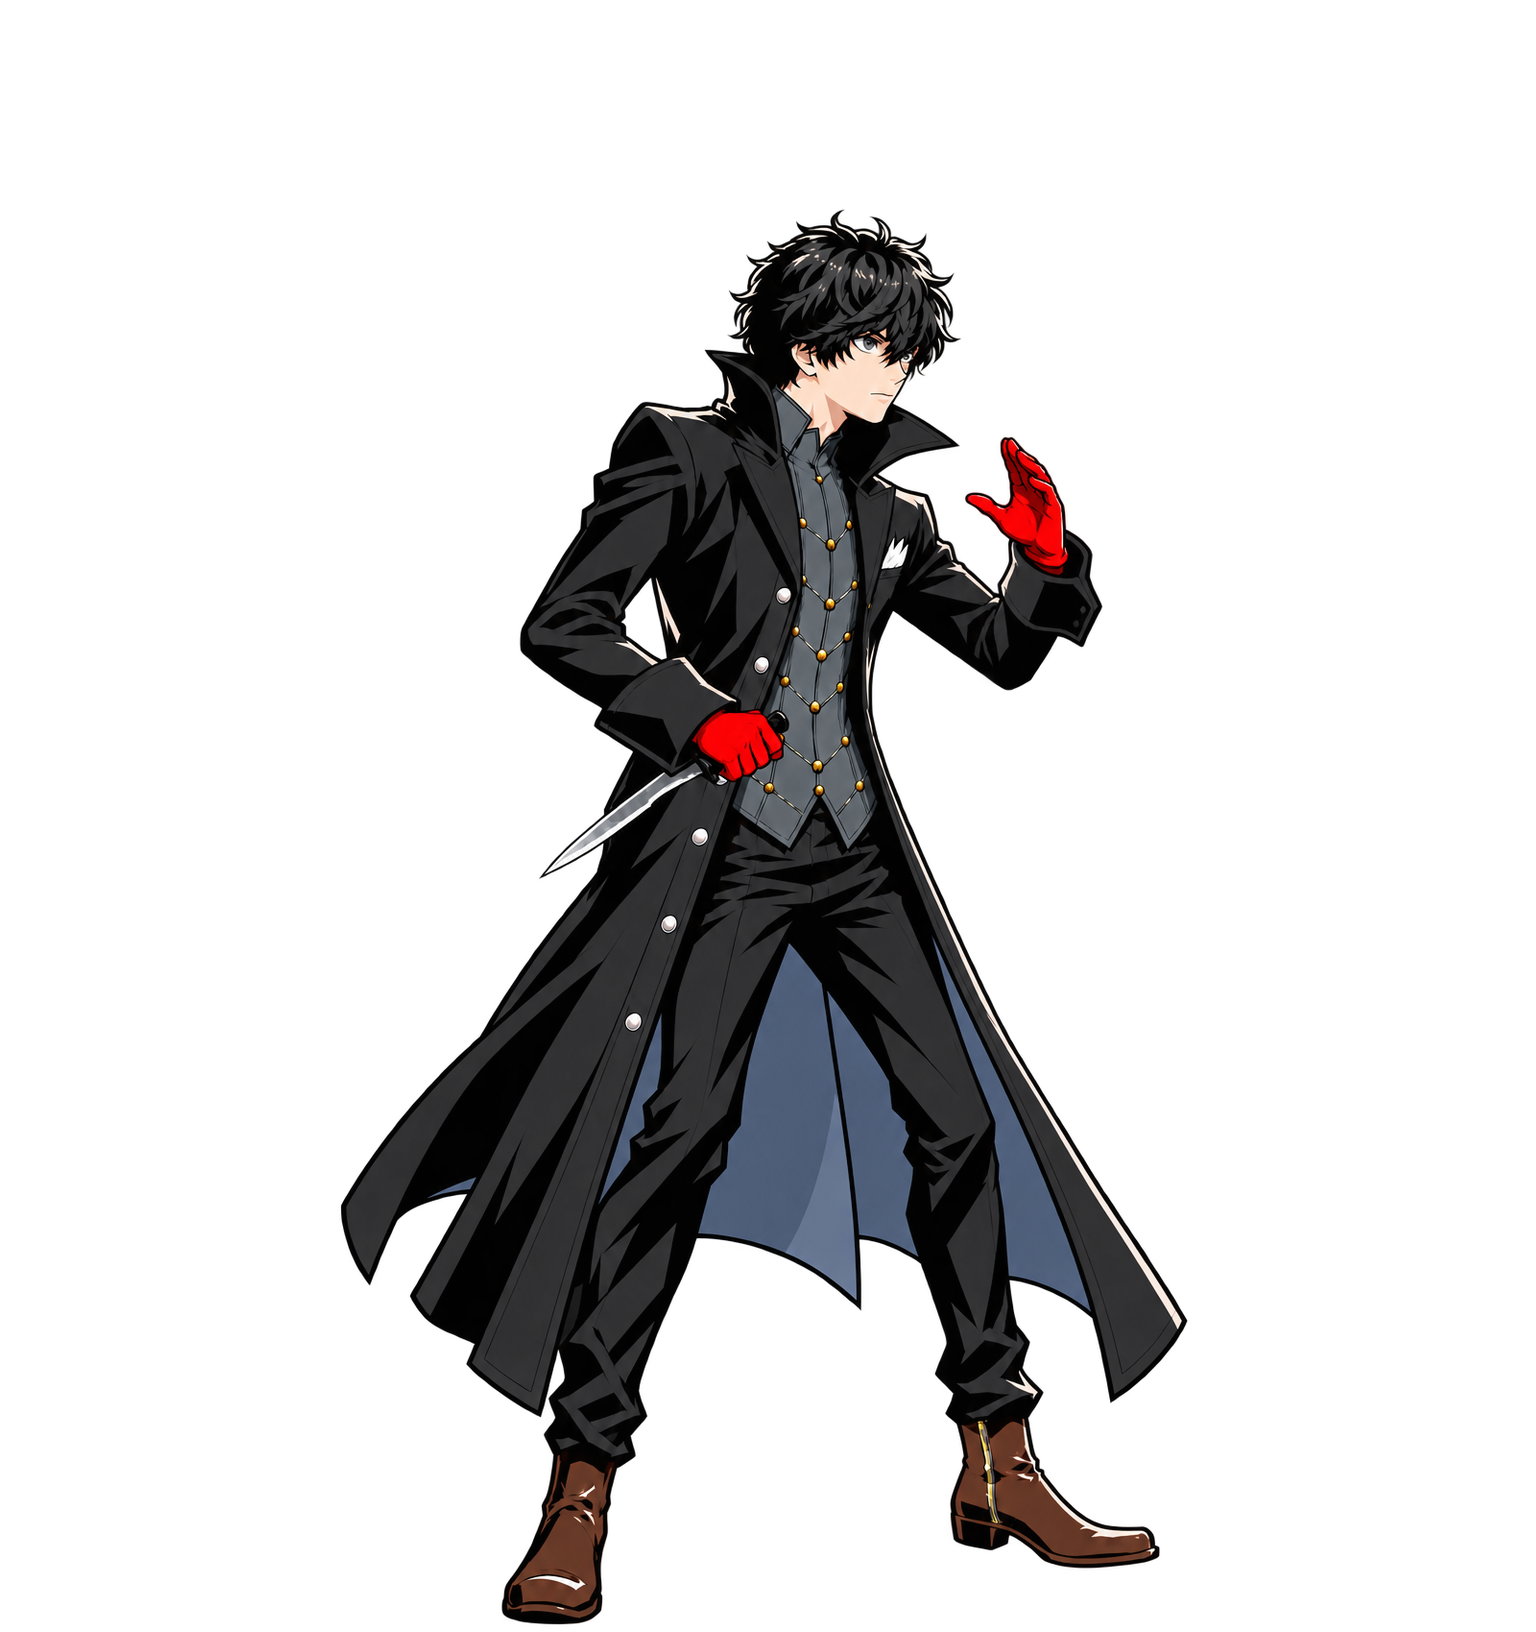
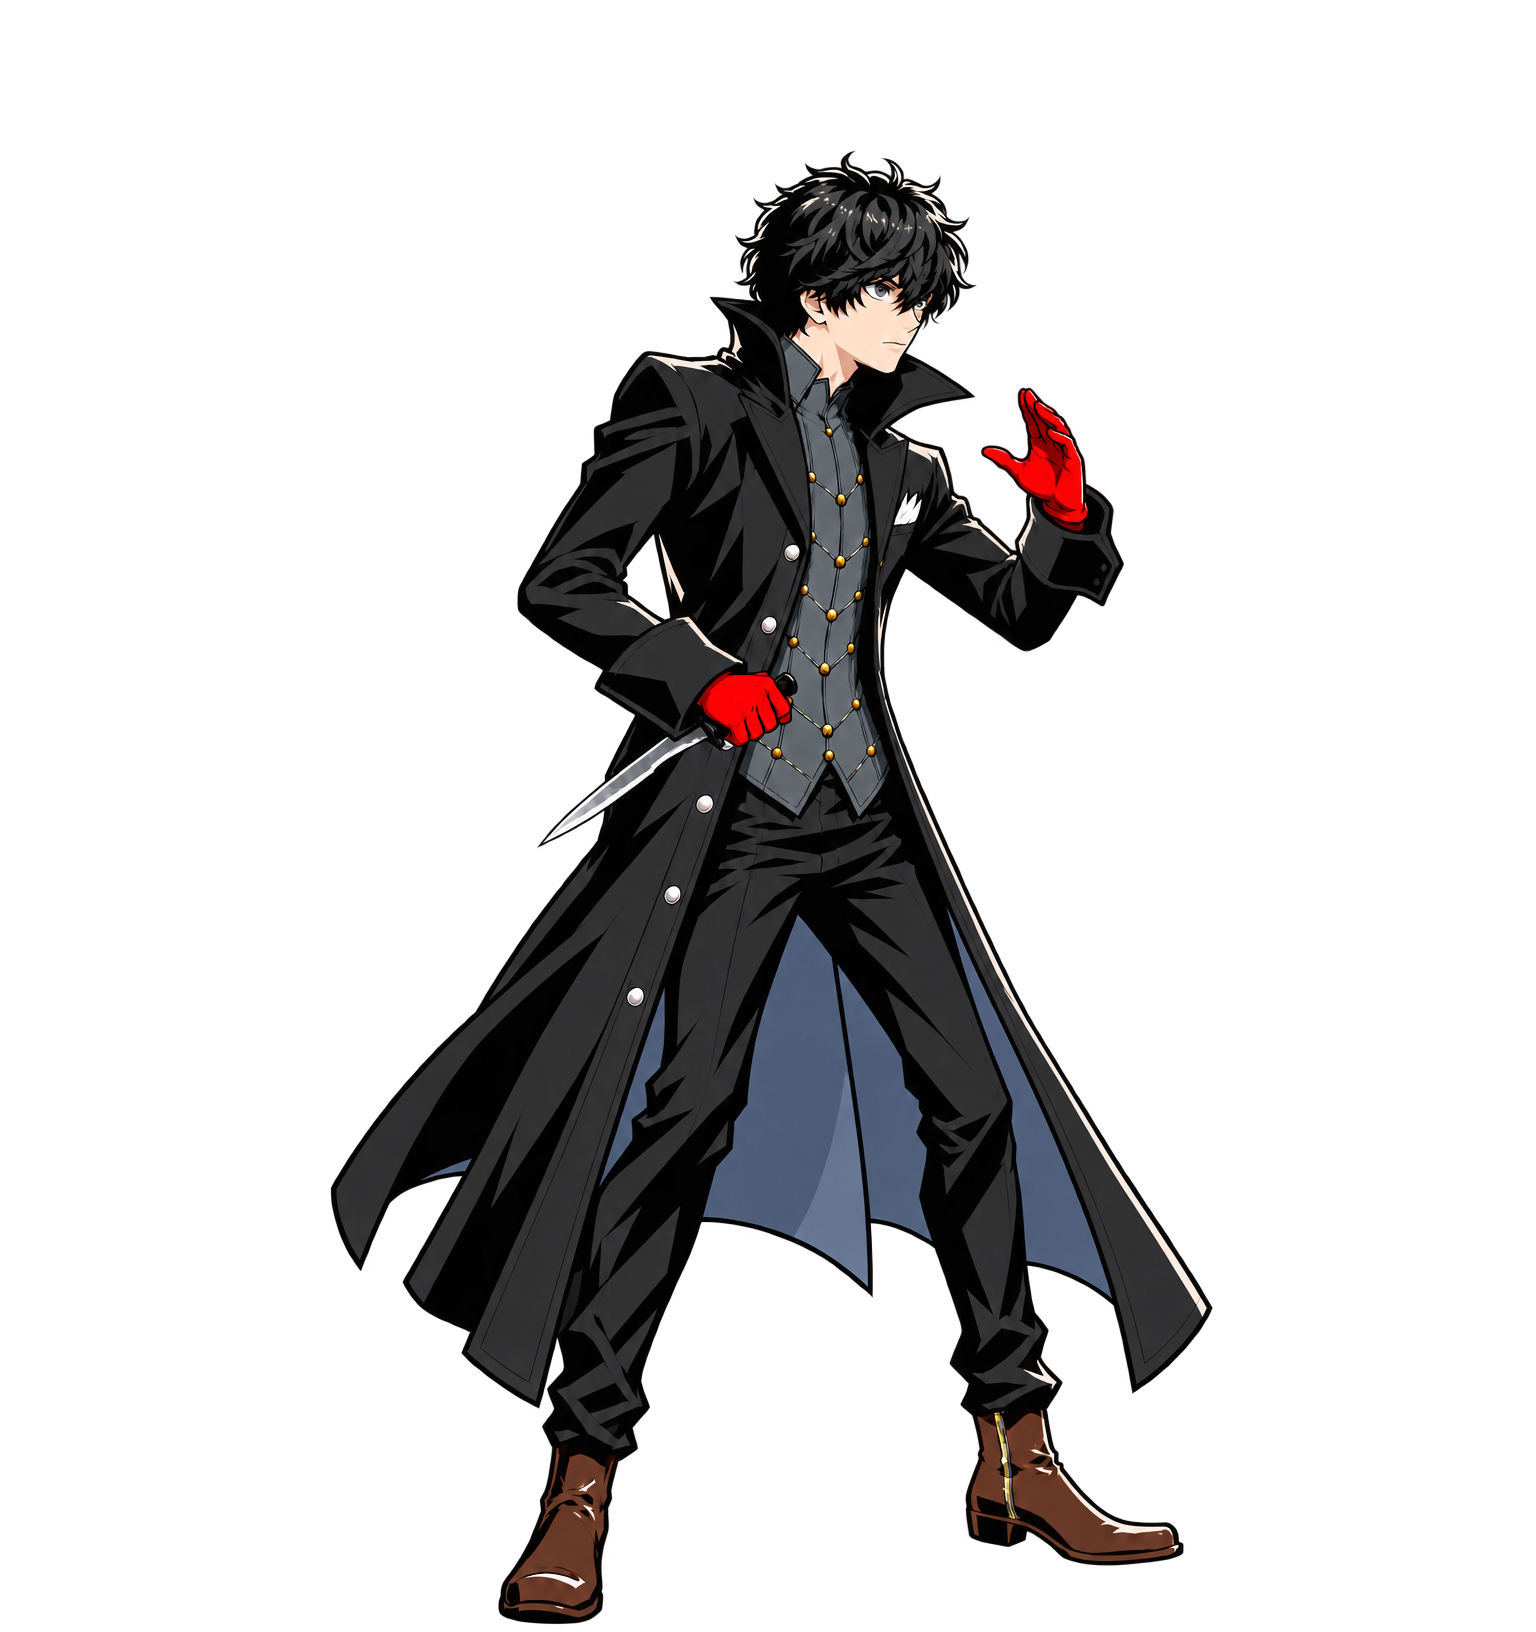
P5Joker: full-size ready stance; faster big summon
- knife_ready_b normalized at 1.0 (was 0.96): the held ready stance read smaller in game
- cast_big ~2.3 s -> ~1.2 s (user: the summon with the flung arm dragged)

Claude-Session: https://claude.ai/code/session_01Nam5m2bn9ofCCWTGM6fwcN

Changed region(s): [[0.2188, 0.0938, 0.8125, 1.0]]

diff --git a/tools/p5/build_rig_p5.py b/tools/p5/build_rig_p5.py
@@ -97,9 +97,10 @@ ANIMS = {
     # buffs), the big summon (mask ripped off) for the large Persona cards
     "cast_guard": [("idle_a3", .02), ("guard_mid_a", .06), ("guard_a2", .45), ("guard_mid_a", .08), ("idle_a3", .12, .07)],
     "cast_glove": [("idle_a3", .02)] + GLOVE,
-    "cast_big": [("idle_a3", .02)] + [(n, .07) for n in SUMMON_UP] + [("summon_hold_a", .35), ("summon_rip_a2", .12),
-                 ("summon_open1_b", .07), ("summon_open2_b", .07), ("summon_release_b", .8), ("summon_settle_b", .1),
-                 ("summon_down1_e", .1), ("summon_down05_c", .1), ("summon_down25_c", .1), ("idle_a3", .15, .08)],
+    # 2026-10-29 (user: the big summon dragged): ~2.3 s -> ~1.3 s; the release pose (arm flung out) still holds longest
+    "cast_big": [("idle_a3", .02)] + [(n, .045) for n in SUMMON_UP] + [("summon_hold_a", .14), ("summon_rip_a2", .08),
+                 ("summon_open1_b", .045), ("summon_open2_b", .045), ("summon_release_b", .42), ("summon_settle_b", .07),
+                 ("summon_down1_e", .065), ("summon_down05_c", .065), ("summon_down25_c", .065), ("idle_a3", .12, .06)],
     "cast": [("idle_a3", .02)] + [(n, .08) for n in SUMMON_UP] + [("summon_hold_a", .9)]
             + [(n, .08) for n in SUMMON_UP[::-1]] + [("idle_a3", .15, .08)],
     "hurt": [("hurt_flinch_a", .05, 0), ("hurt_a4", .25), ("hurt_recover_b1", .1), ("hurt_recover_b2", .1),

diff --git a/tools/p5/normalize_poses.py b/tools/p5/normalize_poses.py
@@ -57,7 +57,7 @@ POSES = {'idle_a3': (1.0, 'rear'), 'guard_a2': (1.0, 'front'), 'knife_ready_a': 
          'die_kneel_a': (1.0, 'front'), 'die_kneel_a2': (1.0, 'front'),
          'relaxed_a': (1.0, 'rear'), 'die_fall_a': (1.0, 'front'), 'die_down_a': (1.0, 'front'),
          'die_down_b': (1.0, 'ground'), 'die_buckle_a': (1.0, 'rear'), 'idle_blink_a': (1.0, 'rear'),
-         'knife_ready_b': (0.96, 'rear'), 'slash_mid_b': (0.96, 'mid'),
+         'knife_ready_b': (1.0, 'rear'), 'slash_mid_b': (0.96, 'mid'),
          'slash_a5': (0.96, 'mid'), 'slash_follow_c': (0.96, 'mid')}
 
 
